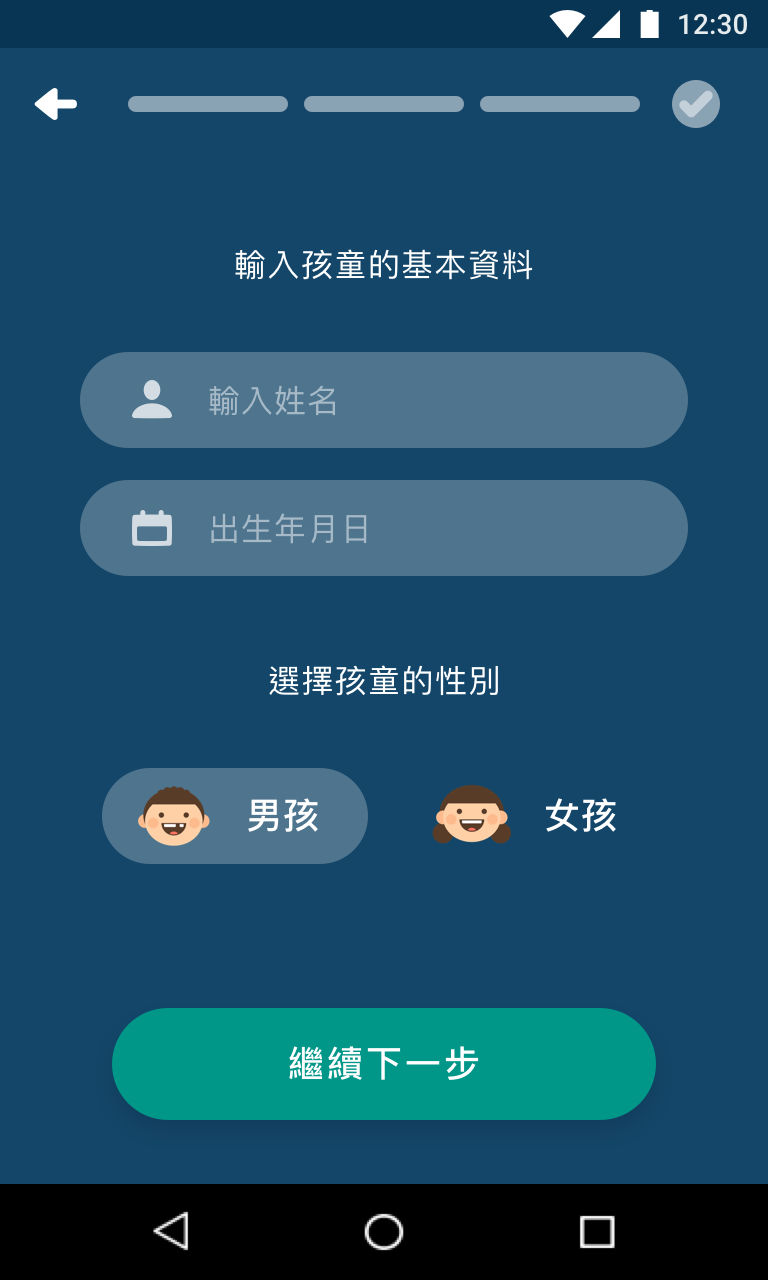
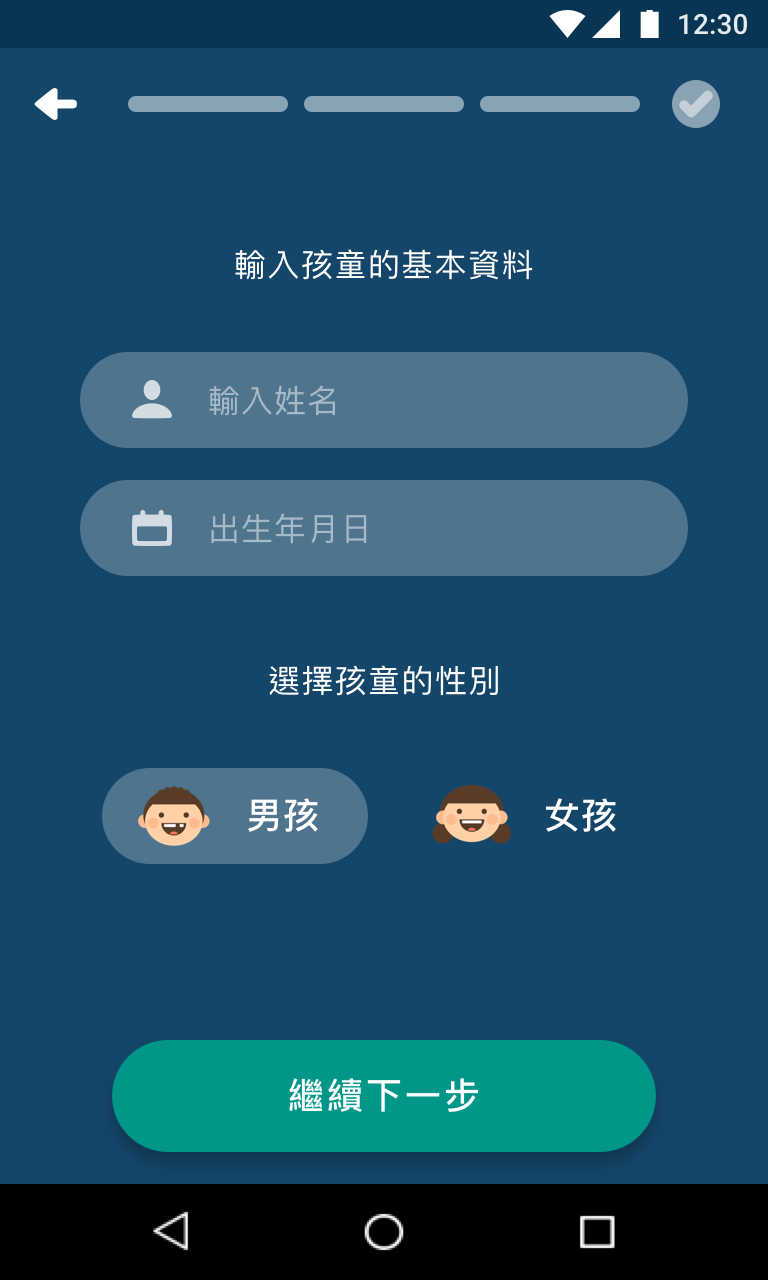
typing

Changed region(s): [[0.125, 0.7812, 0.875, 0.9062]]

diff --git a/page_user_addkid(1)_typing/index.html b/page_user_addkid(1)_typing/index.html
@@ -1656,7 +1656,7 @@ I18N['zh-tw'] = {
     init.prototype = SMApp.fn;
     window.SMApp = SMApp;
 })(window);
-$(function(){ SMApp({"scale":"1","unit":"px","colorFormat":"color-hex","artboards":[{"layers":[{"objectID":"28024362-2B6C-425F-ABE3-B4A7A491E565","type":"shape","name":"Bg_darkBlue","rect":{"x":0,"y":24,"width":384,"height":568},"rotation":0,"radius":0,"borders":[],"fills":[{"fillType":"color","color":{"r":20,"g":70,"b":105,"a":1,"color-hex":"#144669 100%","argb-hex":"#FF144669","css-rgba":"rgba(20,70,105,1)","ui-color":"(r:0.08 g:0.27 b:0.41 a:1.00)"}}],"shadows":[],"opacity":1,"styleName":"","css":["background: #144669;"]},{"objectID":"C275CFDE-29E8-48C1-A6E3-548387DA875D","type":"shape","name":"nav_bar","rect":{"x":0,"y":592,"width":384,"height":48},"rotation":0,"radius":0,"borders":[],"fills":[],"shadows":[],"opacity":1,"styleName":""},{"objectID":"A15F91AF-730A-4074-A24E-D45C4149D91A","type":"symbol","name":"Bar/Header","rect":{"x":0,"y":24,"width":384,"height":56},"rotation":0,"radius":0,"borders":[],"fills":[],"shadows":[],"opacity":1,"styleName":""},{"objectID":"F7567344-B48B-42DA-A3CC-50CE141C64CD","type":"shape","name":"bg","rect":{"x":0,"y":24,"width":384,"height":56},"rotation":0,"radius":0,"borders":[],"fills":[{"fillType":"color","color":{"r":20,"g":70,"b":105,"a":1,"color-hex":"#144669 100%","argb-hex":"#FF144669","css-rgba":"rgba(20,70,105,1)","ui-color":"(r:0.08 g:0.27 b:0.41 a:1.00)"}}],"shadows":[],"opacity":1,"styleName":"","css":["background: #144669;"]},{"objectID":"583EEB53-0298-4464-92ED-E6D612EDCB21","type":"symbol","name":"Icon/menu","rect":{"x":16,"y":40,"width":24,"height":24},"rotation":0,"radius":0,"borders":[],"fills":[],"shadows":[],"opacity":1,"styleName":"","exportable":[{"name":"Icon/back","format":"png","path":"Icon/back.png"}]},{"objectID":"1D9038E2-0B4B-4B89-8FD6-5779EE9AC07C","type":"symbol","name":"Bars/Status bar","rect":{"x":0,"y":0,"width":384,"height":24},"rotation":0,"radius":0,"borders":[],"fills":[],"shadows":[],"opacity":1,"styleName":""},{"objectID":"92B9CC3F-C79D-4213-845D-358967D93061","type":"shape","name":"status bar bg","rect":{"x":0,"y":0,"width":384,"height":24},"rotation":0,"radius":0,"borders":[],"fills":[{"fillType":"color","color":{"r":9,"g":53,"b":84,"a":1,"color-hex":"#093554 100%","argb-hex":"#FF093554","css-rgba":"rgba(9,53,84,1)","ui-color":"(r:0.04 g:0.21 b:0.33 a:1.00)"}}],"shadows":[],"opacity":1,"styleName":"","css":["background: #093554;"]},{"objectID":"C721A454-854E-449C-85BC-A123A8EC1018","type":"text","name":"12:30","rect":{"x":338.3,"y":4,"width":36,"height":16},"rotation":0,"radius":0,"borders":[],"fills":[{"fillType":"color","color":{"r":255,"g":255,"b":255,"a":1,"color-hex":"#FFFFFF 100%","argb-hex":"#FFFFFFFF","css-rgba":"rgba(255,255,255,1)","ui-color":"(r:1.00 g:1.00 b:1.00 a:1.00)"}}],"shadows":[],"opacity":1,"styleName":"","content":"12:30","color":{"r":0,"g":0,"b":0,"a":1,"color-hex":"#000000 100%","argb-hex":"#FF000000","css-rgba":"rgba(0,0,0,1)","ui-color":"(r:0.00 g:0.00 b:0.00 a:1.00)"},"fontSize":14,"fontFace":"Roboto-Medium","textAlign":"right","letterSpacing":0,"lineHeight":16,"css":["font-family: Roboto-Medium;","font-size: 14px;","color: #000000;"]},{"objectID":"EA577749-950A-4B95-AE91-1471809E4D5C","type":"shape","name":"bounds","rect":{"x":317.3,"y":4,"width":16,"height":16},"rotation":0,"radius":0,"borders":[],"fills":[],"shadows":[],"opacity":1,"styleName":""},{"objectID":"04509B03-1C82-4E70-A60B-563CB5EFDEED","type":"shape","name":"Shape","rect":{"x":320.3,"y":5,"width":9,"height":14},"rotation":0,"radius":0,"borders":[],"fills":[{"fillType":"color","color":{"r":255,"g":255,"b":255,"a":1,"color-hex":"#FFFFFF 100%","argb-hex":"#FFFFFFFF","css-rgba":"rgba(255,255,255,1)","ui-color":"(r:1.00 g:1.00 b:1.00 a:1.00)"}}],"shadows":[],"opacity":1,"styleName":"","css":["background: #FFFFFF;"]},{"objectID":"7EBD03E0-7CF8-4DF4-84D6-87FC9A84FB1E","type":"shape","name":"bounds","rect":{"x":296,"y":4,"width":16,"height":16},"rotation":0,"radius":0,"borders":[],"fills":[],"shadows":[],"opacity":1,"styleName":""},{"objectID":"CBB32A07-0D54-40D4-A69F-2B64CBF676E5","type":"shape","name":"Shape","rect":{"x":296,"y":5,"width":14,"height":14},"rotation":0,"radius":0,"borders":[],"fills":[{"fillType":"color","color":{"r":255,"g":255,"b":255,"a":1,"color-hex":"#FFFFFF 100%","argb-hex":"#FFFFFFFF","css-rgba":"rgba(255,255,255,1)","ui-color":"(r:1.00 g:1.00 b:1.00 a:1.00)"}}],"shadows":[],"opacity":1,"styleName":"","css":["background: #FFFFFF;"]},{"objectID":"1C63ECF8-A21C-468D-A2E0-36C0B9689898","type":"shape","name":"bounds","rect":{"x":275.7,"y":4,"width":16,"height":16},"rotation":0,"radius":0,"borders":[],"fills":[],"shadows":[],"opacity":1,"styleName":""},{"objectID":"7A5D021E-5761-4B5B-A926-8A58D348CA3B","type":"shape","name":"Shape","rect":{"x":274.7,"y":5,"width":18,"height":14},"rotation":0,"radius":0,"borders":[],"fills":[{"fillType":"color","color":{"r":255,"g":255,"b":255,"a":1,"color-hex":"#FFFFFF 100%","argb-hex":"#FFFFFFFF","css-rgba":"rgba(255,255,255,1)","ui-color":"(r:1.00 g:1.00 b:1.00 a:1.00)"}}],"shadows":[],"opacity":1,"styleName":"","css":["background: #FFFFFF;"]},{"objectID":"D71D352F-4E9A-4F74-93FB-42F753AEC590","type":"shape","name":"Line1","rect":{"x":152,"y":48,"width":80,"height":8},"rotation":0,"radius":100,"borders":[],"fills":[{"fillType":"color","color":{"r":255,"g":255,"b":255,"a":0.5,"color-hex":"#FFFFFF 50%","argb-hex":"#80FFFFFF","css-rgba":"rgba(255,255,255,0.5)","ui-color":"(r:1.00 g:1.00 b:1.00 a:0.50)"}}],"shadows":[],"opacity":1,"styleName":"","css":["background: rgba(255,255,255,0.50);","border-radius: 100px;"]},{"objectID":"3871D480-52AE-4548-B8EA-B221D8EC37E9","type":"shape","name":"Line2","rect":{"x":240,"y":48,"width":80,"height":8},"rotation":0,"radius":100,"borders":[],"fills":[{"fillType":"color","color":{"r":255,"g":255,"b":255,"a":0.5,"color-hex":"#FFFFFF 50%","argb-hex":"#80FFFFFF","css-rgba":"rgba(255,255,255,0.5)","ui-color":"(r:1.00 g:1.00 b:1.00 a:0.50)"}}],"shadows":[],"opacity":1,"styleName":"","css":["background: rgba(255,255,255,0.50);","border-radius: 100px;"]},{"objectID":"C67EA64D-8340-48EF-A48E-AB25D6AF76A4","type":"shape","name":"Line3","rect":{"x":64,"y":48,"width":80,"height":8},"rotation":0,"radius":100,"borders":[],"fills":[{"fillType":"color","color":{"r":255,"g":255,"b":255,"a":0.5,"color-hex":"#FFFFFF 50%","argb-hex":"#80FFFFFF","css-rgba":"rgba(255,255,255,0.5)","ui-color":"(r:1.00 g:1.00 b:1.00 a:0.50)"}}],"shadows":[],"opacity":1,"styleName":"","css":["background: rgba(255,255,255,0.50);","border-radius: 100px;"]},{"objectID":"3A635D3B-E00C-4816-AB50-C54E03128A57","type":"shape","name":"Oval 6","rect":{"x":336,"y":40,"width":24,"height":24},"rotation":0,"radius":0,"borders":[],"fills":[{"fillType":"color","color":{"r":255,"g":255,"b":255,"a":0.5,"color-hex":"#FFFFFF 50%","argb-hex":"#80FFFFFF","css-rgba":"rgba(255,255,255,0.5)","ui-color":"(r:1.00 g:1.00 b:1.00 a:0.50)"}}],"shadows":[],"opacity":1,"styleName":"","css":["background: rgba(255,255,255,0.50);"]},{"objectID":"1C34B1A2-B765-4899-8F80-1F87E7AFF339","type":"symbol","name":"Icon/check","rect":{"x":338,"y":42,"width":20,"height":20},"rotation":0,"radius":0,"borders":[],"fills":[],"shadows":[],"opacity":0.5,"styleName":"","css":["opacity: 0.5;"],"exportable":[{"name":"Icon/check","format":"png","path":"Icon/check.png"}]},{"objectID":"14F687F9-7315-45F8-B570-F7F9BD13FCD2","type":"shape","name":"Bg_selected","rect":{"x":51,"y":384,"width":133,"height":48},"rotation":0,"radius":100,"borders":[],"fills":[{"fillType":"color","color":{"r":255,"g":255,"b":255,"a":0.2499999850988388,"color-hex":"#FFFFFF 25%","argb-hex":"#40FFFFFF","css-rgba":"rgba(255,255,255,0.25)","ui-color":"(r:1.00 g:1.00 b:1.00 a:0.25)"}}],"shadows":[],"opacity":1,"styleName":"","css":["background: rgba(255,255,255,0.25);","border-radius: 100px;"]},{"objectID":"6B3985BB-47AC-4B1A-B308-D1EB1260DDAD","type":"text","name":"男孩","rect":{"x":123,"y":396,"width":37,"height":24},"rotation":0,"radius":0,"borders":[],"fills":[],"shadows":[],"opacity":1,"styleName":"","content":"男孩","color":{"r":255,"g":255,"b":255,"a":1,"color-hex":"#FFFFFF 100%","argb-hex":"#FFFFFFFF","css-rgba":"rgba(255,255,255,1)","ui-color":"(r:1.00 g:1.00 b:1.00 a:1.00)"},"fontSize":18,"fontFace":"PingFangTC-Medium","textAlign":"left","letterSpacing":0.5,"lineHeight":24,"css":["font-family: PingFangTC-Medium;","font-size: 18px;","color: #FFFFFF;","letter-spacing: 0.5px;","line-height: 24px;"]},{"objectID":"147239E5-6EF2-4C07-A854-6D1A042FDAFA","type":"slice","name":"avatar_boy","rect":{"x":67,"y":388,"width":40,"height":40},"exportable":[{"name":"avatar_boy","format":"png","path":"avatar_boy.png"}]},{"objectID":"255DC6D1-B4B0-4A9A-AAFA-FC97D04D496E","type":"shape","name":"Bg_selected","rect":{"x":200,"y":384,"width":133,"height":48},"rotation":0,"radius":100,"borders":[],"fills":[{"fillType":"color","color":{"r":255,"g":255,"b":255,"a":0,"color-hex":"#FFFFFF 0%","argb-hex":"#00FFFFFF","css-rgba":"rgba(255,255,255,0)","ui-color":"(r:1.00 g:1.00 b:1.00 a:0.00)"}}],"shadows":[],"opacity":1,"styleName":"","css":["background: rgba(255,255,255,0.00);","border-radius: 100px;"]},{"objectID":"E727F453-EBD3-474F-9B11-584FD786B51D","type":"text","name":"女孩","rect":{"x":272,"y":396,"width":37,"height":24},"rotation":0,"radius":0,"borders":[],"fills":[],"shadows":[],"opacity":1,"styleName":"","content":"女孩","color":{"r":255,"g":255,"b":255,"a":1,"color-hex":"#FFFFFF 100%","argb-hex":"#FFFFFFFF","css-rgba":"rgba(255,255,255,1)","ui-color":"(r:1.00 g:1.00 b:1.00 a:1.00)"},"fontSize":18,"fontFace":"PingFangTC-Medium","textAlign":"left","letterSpacing":0.5,"lineHeight":24,"css":["font-family: PingFangTC-Medium;","font-size: 18px;","color: #FFFFFF;","letter-spacing: 0.5px;","line-height: 24px;"]},{"objectID":"257B07ED-0B84-4DE8-B4E5-AC4D8864F707","type":"slice","name":"avatar_girl copy","rect":{"x":216,"y":388,"width":40,"height":40},"exportable":[{"name":"avatar_girl copy","format":"png","path":"avatar_girl copy.png"}]},{"objectID":"42D27613-87E0-4396-82ED-E1BCC02D0E9D","type":"text","name":"選擇孩童的性別","rect":{"x":134,"y":328,"width":117,"height":24},"rotation":0,"radius":0,"borders":[],"fills":[],"shadows":[],"opacity":1,"styleName":"","content":"選擇孩童的性別","color":{"r":255,"g":255,"b":255,"a":1,"color-hex":"#FFFFFF 100%","argb-hex":"#FFFFFFFF","css-rgba":"rgba(255,255,255,1)","ui-color":"(r:1.00 g:1.00 b:1.00 a:1.00)"},"fontSize":16,"fontFace":"Roboto-Regular","textAlign":"center","letterSpacing":0.699999988079071,"lineHeight":24,"css":["font-family: Roboto-Regular;","font-size: 16px;","color: #FFFFFF;","letter-spacing: 0.7px;","line-height: 24px;"]},{"objectID":"BF1D3D7E-54DC-400A-88F6-0B673BF03D0D","type":"symbol","name":"Input/normal","rect":{"x":40,"y":176,"width":304,"height":48},"rotation":0,"radius":0,"borders":[],"fills":[],"shadows":[],"opacity":1,"styleName":""},{"objectID":"87D83326-6E0F-4EEA-B312-F28E05B72863","type":"shape","name":"Bg_input","rect":{"x":40,"y":176,"width":304,"height":48},"rotation":0,"radius":100,"borders":[],"fills":[{"fillType":"color","color":{"r":255,"g":255,"b":255,"a":0.25,"color-hex":"#FFFFFF 25%","argb-hex":"#40FFFFFF","css-rgba":"rgba(255,255,255,0.25)","ui-color":"(r:1.00 g:1.00 b:1.00 a:0.25)"}}],"shadows":[],"opacity":1,"styleName":"","css":["background: rgba(255,255,255,0.25);","border-radius: 100px;"]},{"objectID":"B507ECFD-4F80-4E1A-B5AC-7AC48E3BCA7C","type":"text","name":"Text_default","rect":{"x":104,"y":188,"width":66,"height":24},"rotation":0,"radius":0,"borders":[],"fills":[],"shadows":[],"opacity":0.5,"styleName":"","content":"輸入姓名","color":{"r":255,"g":255,"b":255,"a":1,"color-hex":"#FFFFFF 100%","argb-hex":"#FFFFFFFF","css-rgba":"rgba(255,255,255,1)","ui-color":"(r:1.00 g:1.00 b:1.00 a:1.00)"},"fontSize":16,"fontFace":"Roboto-Regular","textAlign":"left","letterSpacing":0.5,"lineHeight":24,"css":["opacity: 0.5;","font-family: Roboto-Regular;","font-size: 16px;","color: #FFFFFF;","letter-spacing: 0.5px;","line-height: 24px;"]},{"objectID":"1E2AD092-03B3-434E-8F95-86852CD7C4F4","type":"symbol","name":"Icon/person","rect":{"x":64,"y":188,"width":24,"height":24},"rotation":0,"radius":0,"borders":[],"fills":[],"shadows":[],"opacity":0.75,"styleName":"","css":["opacity: 0.75;"],"exportable":[{"name":"Icon/person","format":"png","path":"Icon/person.png"}]},{"objectID":"BF1D3D7E-54DC-400A-88F6-0B673BF03D0D","type":"symbol","name":"Input/normal Copy","rect":{"x":40,"y":240,"width":304,"height":48},"rotation":0,"radius":0,"borders":[],"fills":[],"shadows":[],"opacity":1,"styleName":""},{"objectID":"87D83326-6E0F-4EEA-B312-F28E05B72863","type":"shape","name":"Bg_input","rect":{"x":40,"y":240,"width":304,"height":48},"rotation":0,"radius":100,"borders":[],"fills":[{"fillType":"color","color":{"r":255,"g":255,"b":255,"a":0.25,"color-hex":"#FFFFFF 25%","argb-hex":"#40FFFFFF","css-rgba":"rgba(255,255,255,0.25)","ui-color":"(r:1.00 g:1.00 b:1.00 a:0.25)"}}],"shadows":[],"opacity":1,"styleName":"","css":["background: rgba(255,255,255,0.25);","border-radius: 100px;"]},{"objectID":"B507ECFD-4F80-4E1A-B5AC-7AC48E3BCA7C","type":"text","name":"Text_default","rect":{"x":104,"y":252,"width":83,"height":24},"rotation":0,"radius":0,"borders":[],"fills":[],"shadows":[],"opacity":0.5,"styleName":"","content":"出生年月日","color":{"r":255,"g":255,"b":255,"a":1,"color-hex":"#FFFFFF 100%","argb-hex":"#FFFFFFFF","css-rgba":"rgba(255,255,255,1)","ui-color":"(r:1.00 g:1.00 b:1.00 a:1.00)"},"fontSize":16,"fontFace":"Roboto-Regular","textAlign":"left","letterSpacing":0.5,"lineHeight":24,"css":["opacity: 0.5;","font-family: Roboto-Regular;","font-size: 16px;","color: #FFFFFF;","letter-spacing: 0.5px;","line-height: 24px;"]},{"objectID":"7F0D17CB-E802-4210-AAA2-933E3AF012D9","type":"symbol","name":"Icon/person","rect":{"x":64,"y":252,"width":24,"height":24},"rotation":0,"radius":0,"borders":[],"fills":[],"shadows":[],"opacity":0.75,"styleName":"","css":["opacity: 0.75;"],"exportable":[{"name":"Icon/calender","format":"png","path":"Icon/calender.png"}]},{"objectID":"6A69CA1F-25B4-4225-AF95-B31FBC92F070","type":"text","name":"輸入孩童的基本資料","rect":{"x":117,"y":120,"width":150,"height":24},"rotation":0,"radius":0,"borders":[],"fills":[],"shadows":[],"opacity":1,"styleName":"","content":"輸入孩童的基本資料","color":{"r":255,"g":255,"b":255,"a":1,"color-hex":"#FFFFFF 100%","argb-hex":"#FFFFFFFF","css-rgba":"rgba(255,255,255,1)","ui-color":"(r:1.00 g:1.00 b:1.00 a:1.00)"},"fontSize":16,"fontFace":"Roboto-Regular","textAlign":"center","letterSpacing":0.699999988079071,"lineHeight":24,"css":["font-family: Roboto-Regular;","font-size: 16px;","color: #FFFFFF;","letter-spacing: 0.7px;","line-height: 24px;"]},{"objectID":"0C65FCC8-A735-40E2-A957-7A61A70AAF78","type":"shape","name":"Rectangle 13","rect":{"x":56,"y":520,"width":272,"height":56},"rotation":0,"radius":100,"borders":[],"fills":[{"fillType":"color","color":{"r":0,"g":150,"b":136,"a":1,"color-hex":"#009688 100%","argb-hex":"#FF009688","css-rgba":"rgba(0,150,136,1)","ui-color":"(r:0.00 g:0.59 b:0.53 a:1.00)"}}],"shadows":[{"type":"outer","offsetX":0,"offsetY":6,"blurRadius":8,"spread":0,"color":{"r":0,"g":0,"b":0,"a":0.2,"color-hex":"#000000 20%","argb-hex":"#33000000","css-rgba":"rgba(0,0,0,0.2)","ui-color":"(r:0.00 g:0.00 b:0.00 a:0.20)"}}],"opacity":1,"styleName":"","css":["background: #009688;","box-shadow: 0 6px 8px 0 rgba(0,0,0,0.20);","border-radius: 100px;"]},{"objectID":"56B2AD4A-5A84-451C-91D2-E6EBE92EE7FF","type":"text","name":"繼續下一步","rect":{"x":144,"y":536,"width":96,"height":24},"rotation":0,"radius":0,"borders":[],"fills":[],"shadows":[],"opacity":1,"styleName":"","content":"繼續下一步","color":{"r":255,"g":255,"b":255,"a":1,"color-hex":"#FFFFFF 100%","argb-hex":"#FFFFFFFF","css-rgba":"rgba(255,255,255,1)","ui-color":"(r:1.00 g:1.00 b:1.00 a:1.00)"},"fontSize":18,"fontFace":"Roboto-Medium","textAlign":"center","letterSpacing":1.5,"lineHeight":24,"css":["font-family: Roboto-Medium;","font-size: 18px;","color: #FFFFFF;","letter-spacing: 1.5px;","line-height: 24px;"]}],"notes":[{"rect":{"x":327,"y":255,"width":115,"height":17},"note":"點擊跳出日期selector"}],"pageName":"Page 1","pageObjectID":"D526FE0C-BCEE-4C14-AAE0-85B6CF2F2B53","name":"會員專區-addkid(1)","slug":"page-1-會員專區-addkid1","objectID":"538D5428-7AC1-4991-94EC-791F71C2ED9E","width":384,"height":640,"imagePath":"preview/page-1-%E6%9C%83%E5%93%A1%E5%B0%88%E5%8D%80-addkid1.png"}],"slices":[{"name":"Icon/menu","objectID":"583EEB53-0298-4464-92ED-E6D612EDCB21","rect":{"x":16,"y":40,"width":24,"height":24},"exportable":[{"name":"Icon/back","format":"png","path":"Icon/back.png"}]},{"name":"Icon/check","objectID":"1C34B1A2-B765-4899-8F80-1F87E7AFF339","rect":{"x":338,"y":42,"width":20,"height":20},"exportable":[{"name":"Icon/check","format":"png","path":"Icon/check.png"}]},{"name":"avatar_boy","objectID":"147239E5-6EF2-4C07-A854-6D1A042FDAFA","rect":{"x":67,"y":388,"width":40,"height":40},"exportable":[{"name":"avatar_boy","format":"png","path":"avatar_boy.png"}]},{"name":"avatar_girl copy","objectID":"257B07ED-0B84-4DE8-B4E5-AC4D8864F707","rect":{"x":216,"y":388,"width":40,"height":40},"exportable":[{"name":"avatar_girl copy","format":"png","path":"avatar_girl copy.png"}]},{"name":"Icon/person","objectID":"1E2AD092-03B3-434E-8F95-86852CD7C4F4","rect":{"x":64,"y":188,"width":24,"height":24},"exportable":[{"name":"Icon/person","format":"png","path":"Icon/person.png"}]},{"name":"Icon/person","objectID":"7F0D17CB-E802-4210-AAA2-933E3AF012D9","rect":{"x":64,"y":252,"width":24,"height":24},"exportable":[{"name":"Icon/calender","format":"png","path":"Icon/calender.png"}]}],"colors":[]}) });
+$(function(){ SMApp({"scale":"1","unit":"px","colorFormat":"color-hex","artboards":[{"layers":[{"objectID":"F35A9DF7-273A-4586-AC13-E6847CE329DE","type":"shape","name":"Bg_darkBlue","rect":{"x":0,"y":24,"width":384,"height":568},"rotation":0,"radius":0,"borders":[],"fills":[{"fillType":"color","color":{"r":20,"g":70,"b":105,"a":1,"color-hex":"#144669 100%","argb-hex":"#FF144669","css-rgba":"rgba(20,70,105,1)","ui-color":"(r:0.08 g:0.27 b:0.41 a:1.00)"}}],"shadows":[],"opacity":1,"styleName":"","css":["background: #144669;"]},{"objectID":"54569F8D-7CCC-48DC-B04D-5A514C8A64B6","type":"shape","name":"nav_bar","rect":{"x":0,"y":592,"width":384,"height":48},"rotation":0,"radius":0,"borders":[],"fills":[],"shadows":[],"opacity":1,"styleName":""},{"objectID":"A15F91AF-730A-4074-A24E-D45C4149D91A","type":"symbol","name":"Bar/Header","rect":{"x":0,"y":24,"width":384,"height":56},"rotation":0,"radius":0,"borders":[],"fills":[],"shadows":[],"opacity":1,"styleName":""},{"objectID":"F7567344-B48B-42DA-A3CC-50CE141C64CD","type":"shape","name":"bg","rect":{"x":0,"y":24,"width":384,"height":56},"rotation":0,"radius":0,"borders":[],"fills":[{"fillType":"color","color":{"r":20,"g":70,"b":105,"a":1,"color-hex":"#144669 100%","argb-hex":"#FF144669","css-rgba":"rgba(20,70,105,1)","ui-color":"(r:0.08 g:0.27 b:0.41 a:1.00)"}}],"shadows":[],"opacity":1,"styleName":"","css":["background: #144669;"]},{"objectID":"583EEB53-0298-4464-92ED-E6D612EDCB21","type":"symbol","name":"Icon/menu","rect":{"x":16,"y":40,"width":24,"height":24},"rotation":0,"radius":0,"borders":[],"fills":[],"shadows":[],"opacity":1,"styleName":"","exportable":[{"name":"Icon/back","format":"png","path":"Icon/back.png"}]},{"objectID":"1D9038E2-0B4B-4B89-8FD6-5779EE9AC07C","type":"symbol","name":"Bars/Status bar","rect":{"x":0,"y":0,"width":384,"height":24},"rotation":0,"radius":0,"borders":[],"fills":[],"shadows":[],"opacity":1,"styleName":""},{"objectID":"92B9CC3F-C79D-4213-845D-358967D93061","type":"shape","name":"status bar bg","rect":{"x":0,"y":0,"width":384,"height":24},"rotation":0,"radius":0,"borders":[],"fills":[{"fillType":"color","color":{"r":9,"g":53,"b":84,"a":1,"color-hex":"#093554 100%","argb-hex":"#FF093554","css-rgba":"rgba(9,53,84,1)","ui-color":"(r:0.04 g:0.21 b:0.33 a:1.00)"}}],"shadows":[],"opacity":1,"styleName":"","css":["background: #093554;"]},{"objectID":"C721A454-854E-449C-85BC-A123A8EC1018","type":"text","name":"12:30","rect":{"x":338.3,"y":4,"width":36,"height":16},"rotation":0,"radius":0,"borders":[],"fills":[{"fillType":"color","color":{"r":255,"g":255,"b":255,"a":1,"color-hex":"#FFFFFF 100%","argb-hex":"#FFFFFFFF","css-rgba":"rgba(255,255,255,1)","ui-color":"(r:1.00 g:1.00 b:1.00 a:1.00)"}}],"shadows":[],"opacity":1,"styleName":"","content":"12:30","color":{"r":0,"g":0,"b":0,"a":1,"color-hex":"#000000 100%","argb-hex":"#FF000000","css-rgba":"rgba(0,0,0,1)","ui-color":"(r:0.00 g:0.00 b:0.00 a:1.00)"},"fontSize":14,"fontFace":"Roboto-Medium","textAlign":"right","letterSpacing":0,"lineHeight":16,"css":["font-family: Roboto-Medium;","font-size: 14px;","color: #000000;"]},{"objectID":"EA577749-950A-4B95-AE91-1471809E4D5C","type":"shape","name":"bounds","rect":{"x":317.3,"y":4,"width":16,"height":16},"rotation":0,"radius":0,"borders":[],"fills":[],"shadows":[],"opacity":1,"styleName":""},{"objectID":"04509B03-1C82-4E70-A60B-563CB5EFDEED","type":"shape","name":"Shape","rect":{"x":320.3,"y":5,"width":9,"height":14},"rotation":0,"radius":0,"borders":[],"fills":[{"fillType":"color","color":{"r":255,"g":255,"b":255,"a":1,"color-hex":"#FFFFFF 100%","argb-hex":"#FFFFFFFF","css-rgba":"rgba(255,255,255,1)","ui-color":"(r:1.00 g:1.00 b:1.00 a:1.00)"}}],"shadows":[],"opacity":1,"styleName":"","css":["background: #FFFFFF;"]},{"objectID":"7EBD03E0-7CF8-4DF4-84D6-87FC9A84FB1E","type":"shape","name":"bounds","rect":{"x":296,"y":4,"width":16,"height":16},"rotation":0,"radius":0,"borders":[],"fills":[],"shadows":[],"opacity":1,"styleName":""},{"objectID":"CBB32A07-0D54-40D4-A69F-2B64CBF676E5","type":"shape","name":"Shape","rect":{"x":296,"y":5,"width":14,"height":14},"rotation":0,"radius":0,"borders":[],"fills":[{"fillType":"color","color":{"r":255,"g":255,"b":255,"a":1,"color-hex":"#FFFFFF 100%","argb-hex":"#FFFFFFFF","css-rgba":"rgba(255,255,255,1)","ui-color":"(r:1.00 g:1.00 b:1.00 a:1.00)"}}],"shadows":[],"opacity":1,"styleName":"","css":["background: #FFFFFF;"]},{"objectID":"1C63ECF8-A21C-468D-A2E0-36C0B9689898","type":"shape","name":"bounds","rect":{"x":275.7,"y":4,"width":16,"height":16},"rotation":0,"radius":0,"borders":[],"fills":[],"shadows":[],"opacity":1,"styleName":""},{"objectID":"7A5D021E-5761-4B5B-A926-8A58D348CA3B","type":"shape","name":"Shape","rect":{"x":274.7,"y":5,"width":18,"height":14},"rotation":0,"radius":0,"borders":[],"fills":[{"fillType":"color","color":{"r":255,"g":255,"b":255,"a":1,"color-hex":"#FFFFFF 100%","argb-hex":"#FFFFFFFF","css-rgba":"rgba(255,255,255,1)","ui-color":"(r:1.00 g:1.00 b:1.00 a:1.00)"}}],"shadows":[],"opacity":1,"styleName":"","css":["background: #FFFFFF;"]},{"objectID":"CB2D9A11-7370-4C8A-A47B-BFACD473E6F5","type":"shape","name":"Line1","rect":{"x":152,"y":48,"width":80,"height":8},"rotation":0,"radius":100,"borders":[],"fills":[{"fillType":"color","color":{"r":255,"g":255,"b":255,"a":0.5,"color-hex":"#FFFFFF 50%","argb-hex":"#80FFFFFF","css-rgba":"rgba(255,255,255,0.5)","ui-color":"(r:1.00 g:1.00 b:1.00 a:0.50)"}}],"shadows":[],"opacity":1,"styleName":"","css":["background: rgba(255,255,255,0.50);","border-radius: 100px;"]},{"objectID":"5EA19C75-C6E9-4918-BEF9-CAD501B7AD96","type":"shape","name":"Line2","rect":{"x":240,"y":48,"width":80,"height":8},"rotation":0,"radius":100,"borders":[],"fills":[{"fillType":"color","color":{"r":255,"g":255,"b":255,"a":0.5,"color-hex":"#FFFFFF 50%","argb-hex":"#80FFFFFF","css-rgba":"rgba(255,255,255,0.5)","ui-color":"(r:1.00 g:1.00 b:1.00 a:0.50)"}}],"shadows":[],"opacity":1,"styleName":"","css":["background: rgba(255,255,255,0.50);","border-radius: 100px;"]},{"objectID":"AE4B0444-88B0-4682-AEEB-9C0E102E9D0F","type":"shape","name":"Line3","rect":{"x":64,"y":48,"width":80,"height":8},"rotation":0,"radius":100,"borders":[],"fills":[{"fillType":"color","color":{"r":255,"g":255,"b":255,"a":0.5,"color-hex":"#FFFFFF 50%","argb-hex":"#80FFFFFF","css-rgba":"rgba(255,255,255,0.5)","ui-color":"(r:1.00 g:1.00 b:1.00 a:0.50)"}}],"shadows":[],"opacity":1,"styleName":"","css":["background: rgba(255,255,255,0.50);","border-radius: 100px;"]},{"objectID":"E7587176-18C0-4594-A630-BC49807261DA","type":"shape","name":"Oval 6","rect":{"x":336,"y":40,"width":24,"height":24},"rotation":0,"radius":0,"borders":[],"fills":[{"fillType":"color","color":{"r":255,"g":255,"b":255,"a":0.5,"color-hex":"#FFFFFF 50%","argb-hex":"#80FFFFFF","css-rgba":"rgba(255,255,255,0.5)","ui-color":"(r:1.00 g:1.00 b:1.00 a:0.50)"}}],"shadows":[],"opacity":1,"styleName":"","css":["background: rgba(255,255,255,0.50);"]},{"objectID":"1C34B1A2-B765-4899-8F80-1F87E7AFF339","type":"symbol","name":"Icon/check","rect":{"x":338,"y":42,"width":20,"height":20},"rotation":0,"radius":0,"borders":[],"fills":[],"shadows":[],"opacity":0.5,"styleName":"","css":["opacity: 0.5;"],"exportable":[{"name":"Icon/check","format":"png","path":"Icon/check.png"}]},{"objectID":"2AE68729-B81B-4434-84A7-F0B0F8B45E3D","type":"shape","name":"Bg_selected","rect":{"x":51,"y":384,"width":133,"height":48},"rotation":0,"radius":100,"borders":[],"fills":[{"fillType":"color","color":{"r":255,"g":255,"b":255,"a":0.2499999850988388,"color-hex":"#FFFFFF 25%","argb-hex":"#40FFFFFF","css-rgba":"rgba(255,255,255,0.25)","ui-color":"(r:1.00 g:1.00 b:1.00 a:0.25)"}}],"shadows":[],"opacity":1,"styleName":"","css":["background: rgba(255,255,255,0.25);","border-radius: 100px;"]},{"objectID":"DD608600-B167-4226-B98E-419C58F03BB1","type":"text","name":"男孩","rect":{"x":123,"y":396,"width":37,"height":24},"rotation":0,"radius":0,"borders":[],"fills":[],"shadows":[],"opacity":1,"styleName":"","content":"男孩","color":{"r":255,"g":255,"b":255,"a":1,"color-hex":"#FFFFFF 100%","argb-hex":"#FFFFFFFF","css-rgba":"rgba(255,255,255,1)","ui-color":"(r:1.00 g:1.00 b:1.00 a:1.00)"},"fontSize":18,"fontFace":"PingFangTC-Medium","textAlign":"left","letterSpacing":0.5,"lineHeight":24,"css":["font-family: PingFangTC-Medium;","font-size: 18px;","color: #FFFFFF;","letter-spacing: 0.5px;","line-height: 24px;"]},{"objectID":"D6E62005-7B8C-48E0-A602-71E6C058E6CD","type":"slice","name":"avatar_boy","rect":{"x":67,"y":388,"width":40,"height":40},"exportable":[{"name":"avatar_boy","format":"png","path":"avatar_boy.png"}]},{"objectID":"3F7D44EF-9E5F-43E8-9144-23ACFE503E84","type":"shape","name":"Bg_selected","rect":{"x":200,"y":384,"width":133,"height":48},"rotation":0,"radius":100,"borders":[],"fills":[{"fillType":"color","color":{"r":255,"g":255,"b":255,"a":0,"color-hex":"#FFFFFF 0%","argb-hex":"#00FFFFFF","css-rgba":"rgba(255,255,255,0)","ui-color":"(r:1.00 g:1.00 b:1.00 a:0.00)"}}],"shadows":[],"opacity":1,"styleName":"","css":["background: rgba(255,255,255,0.00);","border-radius: 100px;"]},{"objectID":"10AC87CB-9067-490D-91B4-E22D6F52D95B","type":"text","name":"女孩","rect":{"x":272,"y":396,"width":37,"height":24},"rotation":0,"radius":0,"borders":[],"fills":[],"shadows":[],"opacity":1,"styleName":"","content":"女孩","color":{"r":255,"g":255,"b":255,"a":1,"color-hex":"#FFFFFF 100%","argb-hex":"#FFFFFFFF","css-rgba":"rgba(255,255,255,1)","ui-color":"(r:1.00 g:1.00 b:1.00 a:1.00)"},"fontSize":18,"fontFace":"PingFangTC-Medium","textAlign":"left","letterSpacing":0.5,"lineHeight":24,"css":["font-family: PingFangTC-Medium;","font-size: 18px;","color: #FFFFFF;","letter-spacing: 0.5px;","line-height: 24px;"]},{"objectID":"B9CFD9AF-51E1-4D6F-BD3B-3FF71C1AD1D6","type":"slice","name":"avatar_girl copy","rect":{"x":216,"y":388,"width":40,"height":40},"exportable":[{"name":"avatar_girl copy","format":"png","path":"avatar_girl copy.png"}]},{"objectID":"5A4222A2-9A8E-40EC-AA8E-1FA67712F30E","type":"text","name":"選擇孩童的性別","rect":{"x":134,"y":328,"width":117,"height":24},"rotation":0,"radius":0,"borders":[],"fills":[],"shadows":[],"opacity":1,"styleName":"","content":"選擇孩童的性別","color":{"r":255,"g":255,"b":255,"a":1,"color-hex":"#FFFFFF 100%","argb-hex":"#FFFFFFFF","css-rgba":"rgba(255,255,255,1)","ui-color":"(r:1.00 g:1.00 b:1.00 a:1.00)"},"fontSize":16,"fontFace":"Roboto-Regular","textAlign":"center","letterSpacing":0.699999988079071,"lineHeight":24,"css":["font-family: Roboto-Regular;","font-size: 16px;","color: #FFFFFF;","letter-spacing: 0.7px;","line-height: 24px;"]},{"objectID":"165B99B2-BEAC-4C39-AF09-68B660EC2441","type":"symbol","name":"Input/normal","rect":{"x":40,"y":176,"width":304,"height":48},"rotation":0,"radius":0,"borders":[],"fills":[],"shadows":[],"opacity":1,"styleName":""},{"objectID":"8D465CDA-E637-4CC5-B22B-4128F2A41E57","type":"shape","name":"Bg_input","rect":{"x":40,"y":176,"width":304,"height":48},"rotation":0,"radius":100,"borders":[],"fills":[{"fillType":"color","color":{"r":255,"g":255,"b":255,"a":0.25,"color-hex":"#FFFFFF 25%","argb-hex":"#40FFFFFF","css-rgba":"rgba(255,255,255,0.25)","ui-color":"(r:1.00 g:1.00 b:1.00 a:0.25)"}}],"shadows":[],"opacity":1,"styleName":"","css":["background: rgba(255,255,255,0.25);","border-radius: 100px;"]},{"objectID":"1E2AD092-03B3-434E-8F95-86852CD7C4F4","type":"symbol","name":"Icon/person","rect":{"x":64,"y":188,"width":24,"height":24},"rotation":0,"radius":0,"borders":[],"fills":[],"shadows":[],"opacity":1,"styleName":"","exportable":[{"name":"Icon/person","format":"png","path":"Icon/person.png"}]},{"objectID":"22693D0A-6DCF-45E9-A664-24AB9D79D315","type":"shape","name":"Line","rect":{"x":104,"y":188,"width":2,"height":24},"rotation":0,"radius":0,"borders":[{"fillType":"color","position":"center","thickness":1,"color":{"r":255,"g":255,"b":255,"a":1,"color-hex":"#FFFFFF 100%","argb-hex":"#FFFFFFFF","css-rgba":"rgba(255,255,255,1)","ui-color":"(r:1.00 g:1.00 b:1.00 a:1.00)"}}],"fills":[],"shadows":[],"opacity":1,"styleName":"","css":["border: 1px solid #FFFFFF;"]},{"objectID":"BF1D3D7E-54DC-400A-88F6-0B673BF03D0D","type":"symbol","name":"Input/normal Copy","rect":{"x":40,"y":240,"width":304,"height":48},"rotation":0,"radius":0,"borders":[],"fills":[],"shadows":[],"opacity":1,"styleName":""},{"objectID":"87D83326-6E0F-4EEA-B312-F28E05B72863","type":"shape","name":"Bg_input","rect":{"x":40,"y":240,"width":304,"height":48},"rotation":0,"radius":100,"borders":[],"fills":[{"fillType":"color","color":{"r":255,"g":255,"b":255,"a":0.25,"color-hex":"#FFFFFF 25%","argb-hex":"#40FFFFFF","css-rgba":"rgba(255,255,255,0.25)","ui-color":"(r:1.00 g:1.00 b:1.00 a:0.25)"}}],"shadows":[],"opacity":1,"styleName":"","css":["background: rgba(255,255,255,0.25);","border-radius: 100px;"]},{"objectID":"B507ECFD-4F80-4E1A-B5AC-7AC48E3BCA7C","type":"text","name":"Text_default","rect":{"x":104,"y":252,"width":83,"height":24},"rotation":0,"radius":0,"borders":[],"fills":[],"shadows":[],"opacity":0.5,"styleName":"","content":"出生年月日","color":{"r":255,"g":255,"b":255,"a":1,"color-hex":"#FFFFFF 100%","argb-hex":"#FFFFFFFF","css-rgba":"rgba(255,255,255,1)","ui-color":"(r:1.00 g:1.00 b:1.00 a:1.00)"},"fontSize":16,"fontFace":"Roboto-Regular","textAlign":"left","letterSpacing":0.5,"lineHeight":24,"css":["opacity: 0.5;","font-family: Roboto-Regular;","font-size: 16px;","color: #FFFFFF;","letter-spacing: 0.5px;","line-height: 24px;"]},{"objectID":"7F0D17CB-E802-4210-AAA2-933E3AF012D9","type":"symbol","name":"Icon/person","rect":{"x":64,"y":252,"width":24,"height":24},"rotation":0,"radius":0,"borders":[],"fills":[],"shadows":[],"opacity":0.75,"styleName":"","css":["opacity: 0.75;"],"exportable":[{"name":"Icon/calender","format":"png","path":"Icon/calender.png"}]},{"objectID":"10BD976D-127C-4422-BB02-BEDE1B1B2771","type":"text","name":"輸入孩童的基本資料","rect":{"x":117,"y":120,"width":150,"height":24},"rotation":0,"radius":0,"borders":[],"fills":[],"shadows":[],"opacity":1,"styleName":"","content":"輸入孩童的基本資料","color":{"r":255,"g":255,"b":255,"a":1,"color-hex":"#FFFFFF 100%","argb-hex":"#FFFFFFFF","css-rgba":"rgba(255,255,255,1)","ui-color":"(r:1.00 g:1.00 b:1.00 a:1.00)"},"fontSize":16,"fontFace":"Roboto-Regular","textAlign":"center","letterSpacing":0.699999988079071,"lineHeight":24,"css":["font-family: Roboto-Regular;","font-size: 16px;","color: #FFFFFF;","letter-spacing: 0.7px;","line-height: 24px;"]},{"objectID":"88C2BF9B-EE2D-4306-BF9E-18012116E61A","type":"shape","name":"bg","rect":{"x":0,"y":368,"width":384,"height":224},"rotation":0,"radius":0,"borders":[],"fills":[{"fillType":"color","color":{"r":236,"g":239,"b":240,"a":1,"color-hex":"#ECEFF0 100%","argb-hex":"#FFECEFF0","css-rgba":"rgba(236,239,240,1)","ui-color":"(r:0.93 g:0.94 b:0.94 a:1.00)"}}],"shadows":[{"type":"outer","offsetX":0,"offsetY":0,"blurRadius":2,"spread":0,"color":{"r":0,"g":0,"b":0,"a":0.12,"color-hex":"#000000 12%","argb-hex":"#1F000000","css-rgba":"rgba(0,0,0,0.12)","ui-color":"(r:0.00 g:0.00 b:0.00 a:0.12)"}},{"type":"outer","offsetX":0,"offsetY":2,"blurRadius":2,"spread":0,"color":{"r":0,"g":0,"b":0,"a":0.24,"color-hex":"#000000 24%","argb-hex":"#3D000000","css-rgba":"rgba(0,0,0,0.24)","ui-color":"(r:0.00 g:0.00 b:0.00 a:0.24)"}},{"type":"inner","offsetX":0,"offsetY":0.5,"blurRadius":0,"spread":0,"color":{"r":255,"g":255,"b":255,"a":0.8,"color-hex":"#FFFFFF 80%","argb-hex":"#CCFFFFFF","css-rgba":"rgba(255,255,255,0.8)","ui-color":"(r:1.00 g:1.00 b:1.00 a:0.80)"}}],"opacity":1,"styleName":"","css":["background: #ECEFF0;","box-shadow: 0 2px 2px 0 rgba(0,0,0,0.24), 0 0 2px 0 rgba(0,0,0,0.12), inset 0 0 0 0 rgba(255,255,255,0.80);"]},{"objectID":"5DF655FB-9F2B-423D-8557-38C5FAA4AEBA","type":"shape","name":"space","rect":{"x":114,"y":551,"width":160,"height":24},"rotation":0,"radius":0,"borders":[],"fills":[{"fillType":"color","color":{"r":55,"g":71,"b":79,"a":1,"color-hex":"#37474F 100%","argb-hex":"#FF37474F","css-rgba":"rgba(55,71,79,1)","ui-color":"(r:0.22 g:0.28 b:0.31 a:1.00)"}}],"shadows":[],"opacity":0.15,"styleName":"","css":["opacity: 0.15;","background: #37474F;"]},{"objectID":"CE30689E-FC86-40B1-928F-3FC126C66E75","type":"shape","name":"caps","rect":{"x":28,"y":502,"width":18,"height":20},"rotation":0,"radius":0,"borders":[],"fills":[{"fillType":"color","color":{"r":55,"g":71,"b":79,"a":1,"color-hex":"#37474F 100%","argb-hex":"#FF37474F","css-rgba":"rgba(55,71,79,1)","ui-color":"(r:0.22 g:0.28 b:0.31 a:1.00)"}}],"shadows":[],"opacity":0.6,"styleName":"","css":["opacity: 0.6;","background: #37474F;"]},{"objectID":"D6E333C1-D8D4-4533-82D7-838E1317D19A","type":"shape","name":"delete","rect":{"x":340,"y":503,"width":24,"height":18},"rotation":0,"radius":0,"borders":[],"fills":[{"fillType":"color","color":{"r":55,"g":71,"b":79,"a":1,"color-hex":"#37474F 100%","argb-hex":"#FF37474F","css-rgba":"rgba(55,71,79,1)","ui-color":"(r:0.22 g:0.28 b:0.31 a:1.00)"}}],"shadows":[],"opacity":0.6,"styleName":"","css":["opacity: 0.6;","background: #37474F;"]},{"objectID":"70D31499-7F90-421E-8C2C-AB6BC989C91A","type":"shape","name":"button bg","rect":{"x":335,"y":544,"width":36,"height":36},"rotation":0,"radius":0,"borders":[{"fillType":"color","position":"inside","thickness":0.3,"color":{"r":76,"g":181,"b":171,"a":1,"color-hex":"#4CB5AB 100%","argb-hex":"#FF4CB5AB","css-rgba":"rgba(76,181,171,1)","ui-color":"(r:0.30 g:0.71 b:0.67 a:1.00)"}},{"fillType":"gradient","position":"inside","thickness":0.3,"gradient":{"type":"linear","from":{"x":0.5,"y":0},"to":{"x":0.5,"y":1},"colorStops":[{"color":{"r":0,"g":0,"b":0,"a":0,"color-hex":"#000000 0%","argb-hex":"#00000000","css-rgba":"rgba(0,0,0,0)","ui-color":"(r:0.00 g:0.00 b:0.00 a:0.00)"},"position":0},{"color":{"r":0,"g":0,"b":0,"a":0.02,"color-hex":"#000000 2%","argb-hex":"#05000000","css-rgba":"rgba(0,0,0,0.02)","ui-color":"(r:0.00 g:0.00 b:0.00 a:0.02)"},"position":0.8},{"color":{"r":0,"g":0,"b":0,"a":0.04,"color-hex":"#000000 4%","argb-hex":"#0A000000","css-rgba":"rgba(0,0,0,0.04)","ui-color":"(r:0.00 g:0.00 b:0.00 a:0.04)"},"position":1}]}},{"fillType":"color","position":"inside","thickness":0.3,"color":{"r":0,"g":150,"b":136,"a":0.12,"color-hex":"#009688 12%","argb-hex":"#1F009688","css-rgba":"rgba(0,150,136,0.12)","ui-color":"(r:0.00 g:0.59 b:0.53 a:0.12)"}}],"fills":[{"fillType":"color","color":{"r":76,"g":181,"b":171,"a":1,"color-hex":"#4CB5AB 100%","argb-hex":"#FF4CB5AB","css-rgba":"rgba(76,181,171,1)","ui-color":"(r:0.30 g:0.71 b:0.67 a:1.00)"}}],"shadows":[{"type":"outer","offsetX":0,"offsetY":0,"blurRadius":2,"spread":0,"color":{"r":0,"g":0,"b":0,"a":0.12,"color-hex":"#000000 12%","argb-hex":"#1F000000","css-rgba":"rgba(0,0,0,0.12)","ui-color":"(r:0.00 g:0.00 b:0.00 a:0.12)"}},{"type":"outer","offsetX":0,"offsetY":2,"blurRadius":2,"spread":0,"color":{"r":0,"g":0,"b":0,"a":0.24,"color-hex":"#000000 24%","argb-hex":"#3D000000","css-rgba":"rgba(0,0,0,0.24)","ui-color":"(r:0.00 g:0.00 b:0.00 a:0.24)"}},{"type":"outer","offsetX":0,"offsetY":0,"blurRadius":0,"spread":0.3,"color":{"r":0,"g":0,"b":0,"a":0.02,"color-hex":"#000000 2%","argb-hex":"#05000000","css-rgba":"rgba(0,0,0,0.02)","ui-color":"(r:0.00 g:0.00 b:0.00 a:0.02)"}}],"opacity":1,"styleName":"","css":["background: #4CB5AB;","border: 0 solid #4CB5AB;","border: 0 solid rgba(0,150,136,0.12);","box-shadow: 0 0 0 0 rgba(0,0,0,0.02), 0 2px 2px 0 rgba(0,0,0,0.24), 0 0 2px 0 rgba(0,0,0,0.12);"]},{"objectID":"E313917F-CFAF-46D3-973B-8AB8170C3A98","type":"shape","name":"return icon","rect":{"x":343.1,"y":556.8,"width":19,"height":12},"rotation":0,"radius":0,"borders":[],"fills":[{"fillType":"color","color":{"r":255,"g":255,"b":255,"a":1,"color-hex":"#FFFFFF 100%","argb-hex":"#FFFFFFFF","css-rgba":"rgba(255,255,255,1)","ui-color":"(r:1.00 g:1.00 b:1.00 a:1.00)"}}],"shadows":[],"opacity":1,"styleName":"","css":["background: #FFFFFF;"]},{"objectID":"4B3F0B63-7A68-45FD-A2A3-152B19B6002B","type":"shape","name":"Rectangle 13","rect":{"x":56,"y":296,"width":272,"height":56},"rotation":0,"radius":100,"borders":[],"fills":[{"fillType":"color","color":{"r":0,"g":150,"b":136,"a":1,"color-hex":"#009688 100%","argb-hex":"#FF009688","css-rgba":"rgba(0,150,136,1)","ui-color":"(r:0.00 g:0.59 b:0.53 a:1.00)"}}],"shadows":[{"type":"outer","offsetX":0,"offsetY":6,"blurRadius":8,"spread":0,"color":{"r":0,"g":0,"b":0,"a":0.2,"color-hex":"#000000 20%","argb-hex":"#33000000","css-rgba":"rgba(0,0,0,0.2)","ui-color":"(r:0.00 g:0.00 b:0.00 a:0.20)"}}],"opacity":1,"styleName":"","css":["background: #009688;","box-shadow: 0 6px 8px 0 rgba(0,0,0,0.20);","border-radius: 100px;"]},{"objectID":"1EA8621F-B818-4BFA-A327-BF557030B251","type":"text","name":"繼續下一步","rect":{"x":144,"y":312,"width":96,"height":24},"rotation":0,"radius":0,"borders":[],"fills":[],"shadows":[],"opacity":1,"styleName":"","content":"繼續下一步","color":{"r":255,"g":255,"b":255,"a":1,"color-hex":"#FFFFFF 100%","argb-hex":"#FFFFFFFF","css-rgba":"rgba(255,255,255,1)","ui-color":"(r:1.00 g:1.00 b:1.00 a:1.00)"},"fontSize":18,"fontFace":"Roboto-Medium","textAlign":"center","letterSpacing":1.5,"lineHeight":24,"css":["font-family: Roboto-Medium;","font-size: 18px;","color: #FFFFFF;","letter-spacing: 1.5px;","line-height: 24px;"]}],"notes":[],"pageName":"Page 1","pageObjectID":"D526FE0C-BCEE-4C14-AAE0-85B6CF2F2B53","name":"會員專區-addkid(1)-typing","slug":"page-1-會員專區-addkid1-typing","objectID":"B3F0AFC0-DAE1-42FB-9ACB-2A3B5DF6AC33","width":384,"height":640,"imagePath":"preview/page-1-%E6%9C%83%E5%93%A1%E5%B0%88%E5%8D%80-addkid1-typing.png"}],"slices":[{"name":"Icon/menu","objectID":"583EEB53-0298-4464-92ED-E6D612EDCB21","rect":{"x":16,"y":40,"width":24,"height":24},"exportable":[{"name":"Icon/back","format":"png","path":"Icon/back.png"}]},{"name":"Icon/check","objectID":"1C34B1A2-B765-4899-8F80-1F87E7AFF339","rect":{"x":338,"y":42,"width":20,"height":20},"exportable":[{"name":"Icon/check","format":"png","path":"Icon/check.png"}]},{"name":"avatar_boy","objectID":"D6E62005-7B8C-48E0-A602-71E6C058E6CD","rect":{"x":67,"y":388,"width":40,"height":40},"exportable":[{"name":"avatar_boy","format":"png","path":"avatar_boy.png"}]},{"name":"avatar_girl copy","objectID":"B9CFD9AF-51E1-4D6F-BD3B-3FF71C1AD1D6","rect":{"x":216,"y":388,"width":40,"height":40},"exportable":[{"name":"avatar_girl copy","format":"png","path":"avatar_girl copy.png"}]},{"name":"Icon/person","objectID":"1E2AD092-03B3-434E-8F95-86852CD7C4F4","rect":{"x":64,"y":188,"width":24,"height":24},"exportable":[{"name":"Icon/person","format":"png","path":"Icon/person.png"}]},{"name":"Icon/person","objectID":"7F0D17CB-E802-4210-AAA2-933E3AF012D9","rect":{"x":64,"y":252,"width":24,"height":24},"exportable":[{"name":"Icon/calender","format":"png","path":"Icon/calender.png"}]}],"colors":[]}) });
     -->
     </script>
   </head>

diff --git a/index.html b/index.html
@@ -54,6 +54,12 @@
                     <img src="source/page_2_addkid(1).png" style="height:210px"/>
                 </a>
             </div>
+            <div class="col-md-2">
+                <a style=" color: #144669 " href="page_user_addkid(1)_typing/index.html">
+                    <p>add kid typing</p>
+                    <img src="source/page_2_addkid(1)_typing.png" style="height:210px"/>
+                </a>
+            </div>
         </div>
         <!-- page_2 -->
     </body>

diff --git a/page_user_addkid(1)_typing/links/page-1-會員專區-addkid1-typing.html b/page_user_addkid(1)_typing/links/page-1-會員專區-addkid1-typing.html
@@ -1,0 +1,1 @@
+<meta http-equiv="refresh" content="0;url=../index.html#artboard0">
